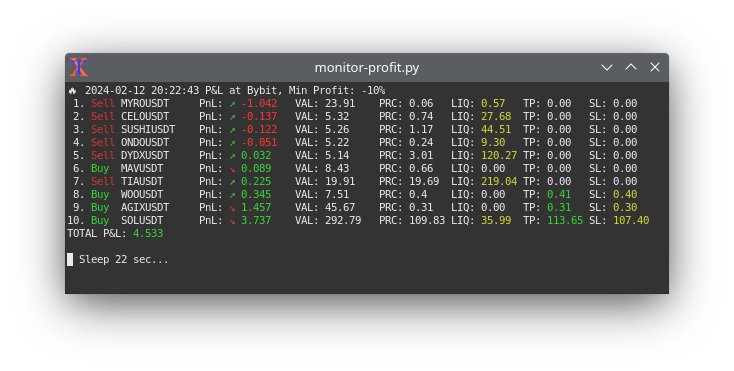
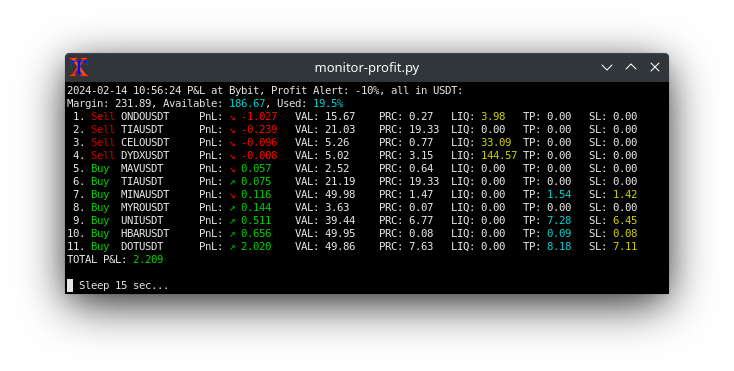
updates

diff --git a/monitor-profit.py b/monitor-profit.py
@@ -39,11 +39,11 @@ if socket.gethostname() == 'sereno':
 
 def side_colored(side): return colored(f"{side:4}", 'red' if side == 'Sell' else 'green')
 
-def tp_colored(tp, l=6, d=2): return colored(f"{tp:<{l}.{d}f}", 'cyan' if tp > 0 else None)
+def tp_colored(tp, l=6, d=2): return colored(f"{tp:<{l}.0{d}f}", 'cyan' if tp > 0 else None)
 
-def pnl_colored(pnl, l=7, d=3, alarm=False): return colored(f"{pnl:<{l}.{d}f}", 'light_red' if pnl < 0 else 'green', attrs=(['blink'] if alarm else None))
+def pnl_colored(pnl, l=7, d=3, alarm=False): return colored(f"{pnl:<{l}.0{d}f}", 'light_red' if pnl < 0 else 'green', attrs=(['blink'] if alarm else None))
 
-def liq_colored(liq, l=6, d=2, alarm=False): return colored(f"{liq:<{l}.{d}f}", None if not liq else ('light_red' if alarm else 'yellow'), attrs=(['blink'] if alarm else None))
+def liq_colored(liq, l=6, d=2, alarm=False): return colored(f"{liq:<{l}.0{d}f}", None if not liq else ('light_red' if alarm else 'yellow'), attrs=(['blink'] if alarm else None))
 
 
 pnl_avg = {}
@@ -78,7 +78,8 @@ def main():
 	marginini = float(depo['totalInitialMargin'])
 	margininipcnt = round(100 * marginini / marginbalance, 2)
 	margininipcntclr = 'light_red' if margininipcnt >= 50 else 'yellow' if margininipcnt >= 30 else 'cyan' if margininipcnt >= 10 else 'green'
-	print(f"Margin: {round(marginbalance, 2)}, Available: {colored(round(marginbalance - marginini, 2), margininipcntclr)}, Used: {colored(str(margininipcnt) + '%', margininipcntclr)}")
+	marginavl = f"{round(marginbalance - marginini, 2):.02f}"
+	print(f"Margin: {round(marginbalance, 2):.02f}, Available: {colored(marginavl, margininipcntclr)}, Used: {colored(str(margininipcnt) + '%', margininipcntclr)}")
 
 	# positions
 	pos_profit = 0
@@ -132,7 +133,7 @@ def main():
 			# gather positions here then sort by pnl and printout
 			coin_orders.append([
 				pnl,
-				f"{side} {symbol:12} PnL: {pnl_direction} {PnL} VAL: {round(val, 2):<8} PRC: {round(prc, 2):<6} LIQ: {liq} TP: {tp} SL: {sl}"
+				f"{side} {symbol:12} PnL: {pnl_direction} {PnL} VAL: {round(val, 2):<8.02f} PRC: {round(prc, 2):<7.02f} LIQ: {liq} TP: {tp} SL: {sl}"
 			])
 
 		# print out sorted, loosers first
